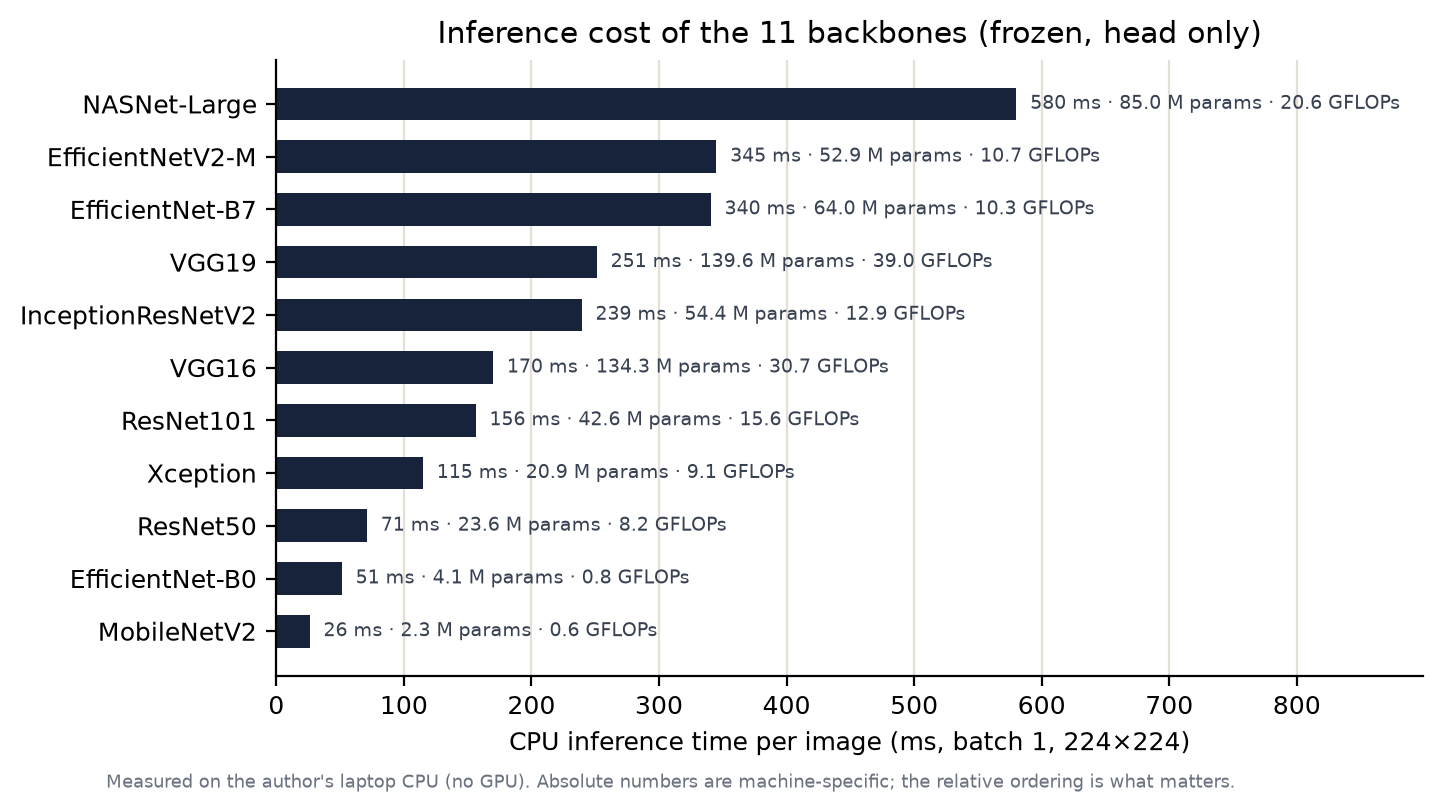
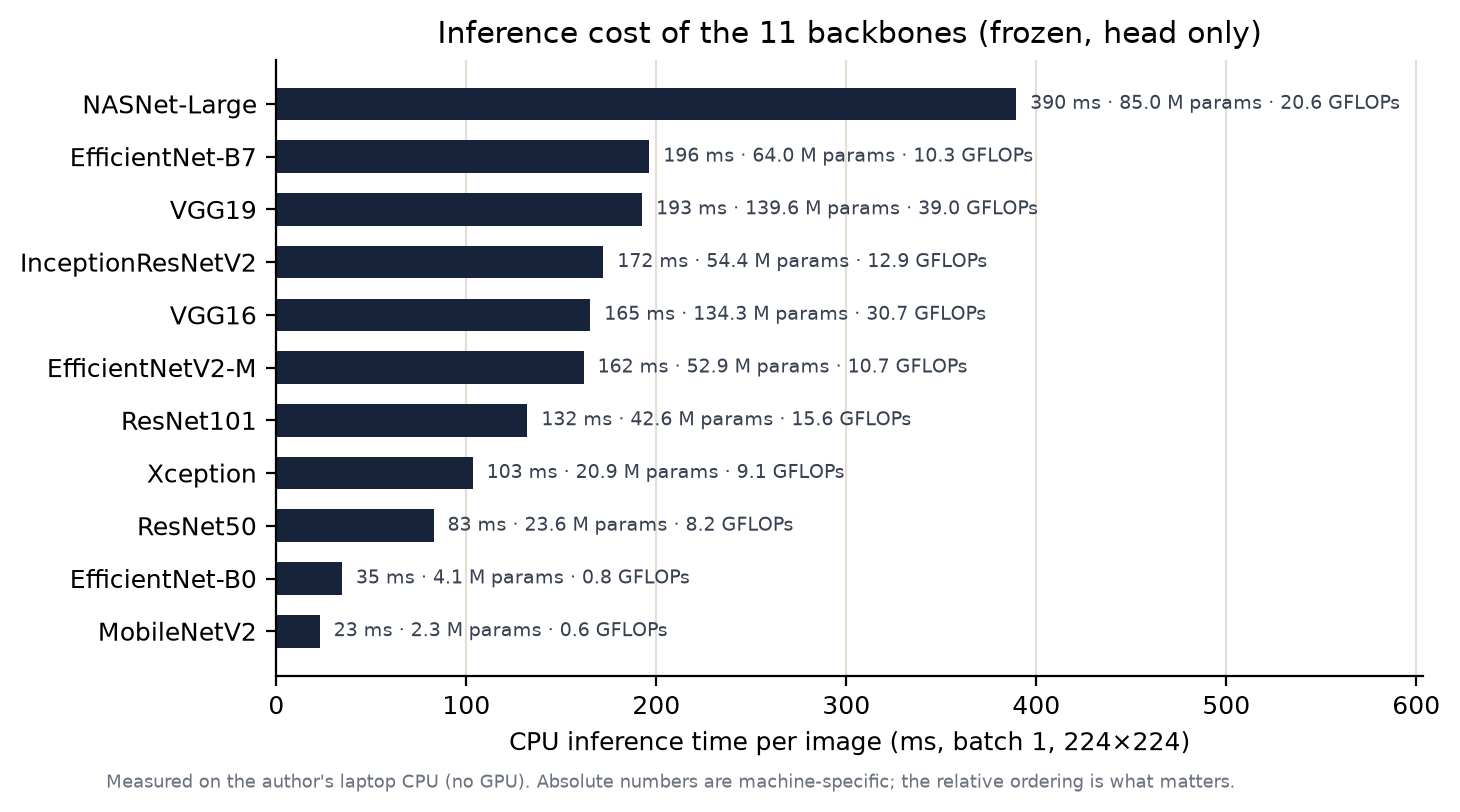
fix(efficiency): re-measure on an idle machine (first run was inflated by concurrent model downloads)

diff --git a/reports/tables/table5_efficiency.tex b/reports/tables/table5_efficiency.tex
@@ -8,17 +8,17 @@
     \toprule
     Model & Total params & GFLOPs & CPU ms/img & GPU ms/img \\
     \midrule
-    MobileNetV2 & 2\,305\,986 & 0.599 & 26.1 & N/A \\
-    EfficientNet-B0 & 4\,089\,662 & 0.769 & 51.3 & N/A \\
-    ResNet50 & 23\,639\,298 & 8.175 & 71.0 & N/A \\
-    Xception & 20\,938\,218 & 9.102 & 114.9 & N/A \\
-    InceptionResNetV2 & 54\,404\,962 & 12.935 & 239.3 & N/A \\
-    EfficientNetV2-M & 52\,940\,470 & 10.722 & 344.9 & N/A \\
-    EfficientNet-B7 & 63\,950\,994 & 10.335 & 340.5 & N/A \\
-    ResNet101 & 42\,631\,426 & 15.599 & 156.2 & N/A \\
-    VGG16 & 134\,293\,506 & 30.693 & 169.9 & N/A \\
-    VGG19 & 139\,603\,202 & 39.017 & 251.2 & N/A \\
-    NASNet-Large & 84\,978\,392 & 20.560 & 580.1 & N/A \\
+    MobileNetV2 & 2\,305\,986 & 0.599 & 22.9 & N/A \\
+    EfficientNet-B0 & 4\,089\,662 & 0.769 & 34.6 & N/A \\
+    ResNet50 & 23\,639\,298 & 8.175 & 82.8 & N/A \\
+    Xception & 20\,938\,218 & 9.102 & 103.4 & N/A \\
+    InceptionResNetV2 & 54\,404\,962 & 12.935 & 172.2 & N/A \\
+    EfficientNetV2-M & 52\,940\,470 & 10.722 & 161.8 & N/A \\
+    EfficientNet-B7 & 63\,950\,994 & 10.335 & 196.4 & N/A \\
+    ResNet101 & 42\,631\,426 & 15.599 & 132.2 & N/A \\
+    VGG16 & 134\,293\,506 & 30.693 & 165.3 & N/A \\
+    VGG19 & 139\,603\,202 & 39.017 & 192.6 & N/A \\
+    NASNet-Large & 84\,978\,392 & 20.560 & 389.5 & N/A \\
     \bottomrule
   \end{tabular}
   \par\vspace{2pt}{\footnotesize CPU timings: mean of 20 forward passes after 5 warm-up iterations. GPU timings pending (Kaggle T4).}

diff --git a/analysis/efficiency.py b/analysis/efficiency.py
@@ -13,6 +13,8 @@
     - 骨干第一次构建会从 timm 下载 ImageNet 权重（100–600 MB/模型），之后走缓存；
       本任务只测量**推理**成本，权重是否预训练对时延的影响可以忽略，但为了与训练时的模型一致，仍用 pretrained=True。
     - GPU 时延本机无法测（无 GPU），CSV 里写 N/A，交给 Kenneth 在 Kaggle 补。
+    - **测量时必须让机器空载**：并行下载权重 / 跑 LIME 会把均值拖高 40–100%（实测 EfficientNetV2-M
+      344.9 → 161.8 ms）。重测前先确认没有别的 python 进程在跑。
     - 不写任何 src/ 下的文件，不改 metrics.json。
 """
 

diff --git a/docs/HANDOFF.md b/docs/HANDOFF.md
@@ -105,17 +105,22 @@ PR 描述里**直接引用本文件对应小节**（例：`见 docs/HANDOFF.md#t
   [efficiency] 图 → results/figures/fig_efficiency.png
   ```
 
-  CSV 前三行：
+  CSV 前三行（**空载重测**，见下方遗留问题）：
 
   ```text
   model,n_params,n_params_trainable,gflops,cpu_ms_per_image,gpu_ms_per_image
-  mobilenet_v2,2305986,82114,0.599,26.1,N/A
-  efficientnet_b0,4089662,82114,0.769,51.3,N/A
-  resnet50,23639298,131266,8.175,71.0,N/A
+  mobilenet_v2,2305986,82114,0.599,22.9,N/A
+  efficientnet_b0,4089662,82114,0.769,34.6,N/A
+  resnet50,23639298,131266,8.175,82.8,N/A
   ```
 
-  实测单模型耗时（含首次下载/构建）：MobileNetV2 7 s，ResNet50 4 s，Xception 3 s，InceptionResNetV2 8 s，
-  EfficientNetV2-M 23 s，EfficientNet-B7 24 s，ResNet101 15 s，VGG16 8 s，VGG19 32 s，NASNet-Large 34 s。
+  实测单模型耗时（权重已缓存、机器空载）：MobileNetV2 5 s，EfficientNet-B0 1 s，ResNet50 3 s，
+  Xception 3 s，InceptionResNetV2 6 s，EfficientNetV2-M 6 s，EfficientNet-B7 7 s，ResNet101 5 s，
+  VGG16 7 s，VGG19 8 s，NASNet-Large 13 s。
+
+  ⚠ 第一次测量时机器上同时在下模型/跑 LIME，均值被拖高（例如 EfficientNet-B0 51.3 → 34.6 ms，
+  NASNet-Large 580.1 → 389.5 ms，EfficientNetV2-M 344.9 → 161.8 ms，后者从"比 VGG16 慢一倍"变成"和 VGG16 持平"）。
+  CSV 与图已用空载数据覆盖。**结论只读相对排序，且必须在空载机器上测。**
 - **待 Kenneth 在 Kaggle 执行**：
 
   ```bash
@@ -145,6 +150,7 @@ PR 描述里**直接引用本文件对应小节**（例：`见 docs/HANDOFF.md#t
   跑完后请把结果贴回本节，并改 `analysis/export_tables.py` 的 Table 5 注释（目前写的是 "GPU pending"）。
 - **Kenneth 验证结果**：
 - **遗留问题**：CPU 数字与本机绑定（作者笔记本，无 GPU、未锁线程），**只能读相对排序**，不要写进论文当绝对性能。
+  另外本次踩到一个坑：**测量时必须让机器空载**（并行下载/跑 LIME 会让均值虚高 40%–100%），我已按空载重测覆盖。
 
 ---
 

diff --git a/reports/tables/table5_efficiency.md b/reports/tables/table5_efficiency.md
@@ -2,16 +2,16 @@
 
 | Model | Total params | GFLOPs | CPU ms/img | GPU ms/img |
 |---|---|---|---|---|
-| MobileNetV2 | 2,305,986 | 0.599 | 26.1 | N/A |
-| EfficientNet-B0 | 4,089,662 | 0.769 | 51.3 | N/A |
-| ResNet50 | 23,639,298 | 8.175 | 71.0 | N/A |
-| Xception | 20,938,218 | 9.102 | 114.9 | N/A |
-| InceptionResNetV2 | 54,404,962 | 12.935 | 239.3 | N/A |
-| EfficientNetV2-M | 52,940,470 | 10.722 | 344.9 | N/A |
-| EfficientNet-B7 | 63,950,994 | 10.335 | 340.5 | N/A |
-| ResNet101 | 42,631,426 | 15.599 | 156.2 | N/A |
-| VGG16 | 134,293,506 | 30.693 | 169.9 | N/A |
-| VGG19 | 139,603,202 | 39.017 | 251.2 | N/A |
-| NASNet-Large | 84,978,392 | 20.560 | 580.1 | N/A |
+| MobileNetV2 | 2,305,986 | 0.599 | 22.9 | N/A |
+| EfficientNet-B0 | 4,089,662 | 0.769 | 34.6 | N/A |
+| ResNet50 | 23,639,298 | 8.175 | 82.8 | N/A |
+| Xception | 20,938,218 | 9.102 | 103.4 | N/A |
+| InceptionResNetV2 | 54,404,962 | 12.935 | 172.2 | N/A |
+| EfficientNetV2-M | 52,940,470 | 10.722 | 161.8 | N/A |
+| EfficientNet-B7 | 63,950,994 | 10.335 | 196.4 | N/A |
+| ResNet101 | 42,631,426 | 15.599 | 132.2 | N/A |
+| VGG16 | 134,293,506 | 30.693 | 165.3 | N/A |
+| VGG19 | 139,603,202 | 39.017 | 192.6 | N/A |
+| NASNet-Large | 84,978,392 | 20.560 | 389.5 | N/A |
 
 > CPU timings: mean of 20 forward passes after 5 warm-up iterations, batch size 1. GPU timings pending (needs a Kaggle T4 session).
